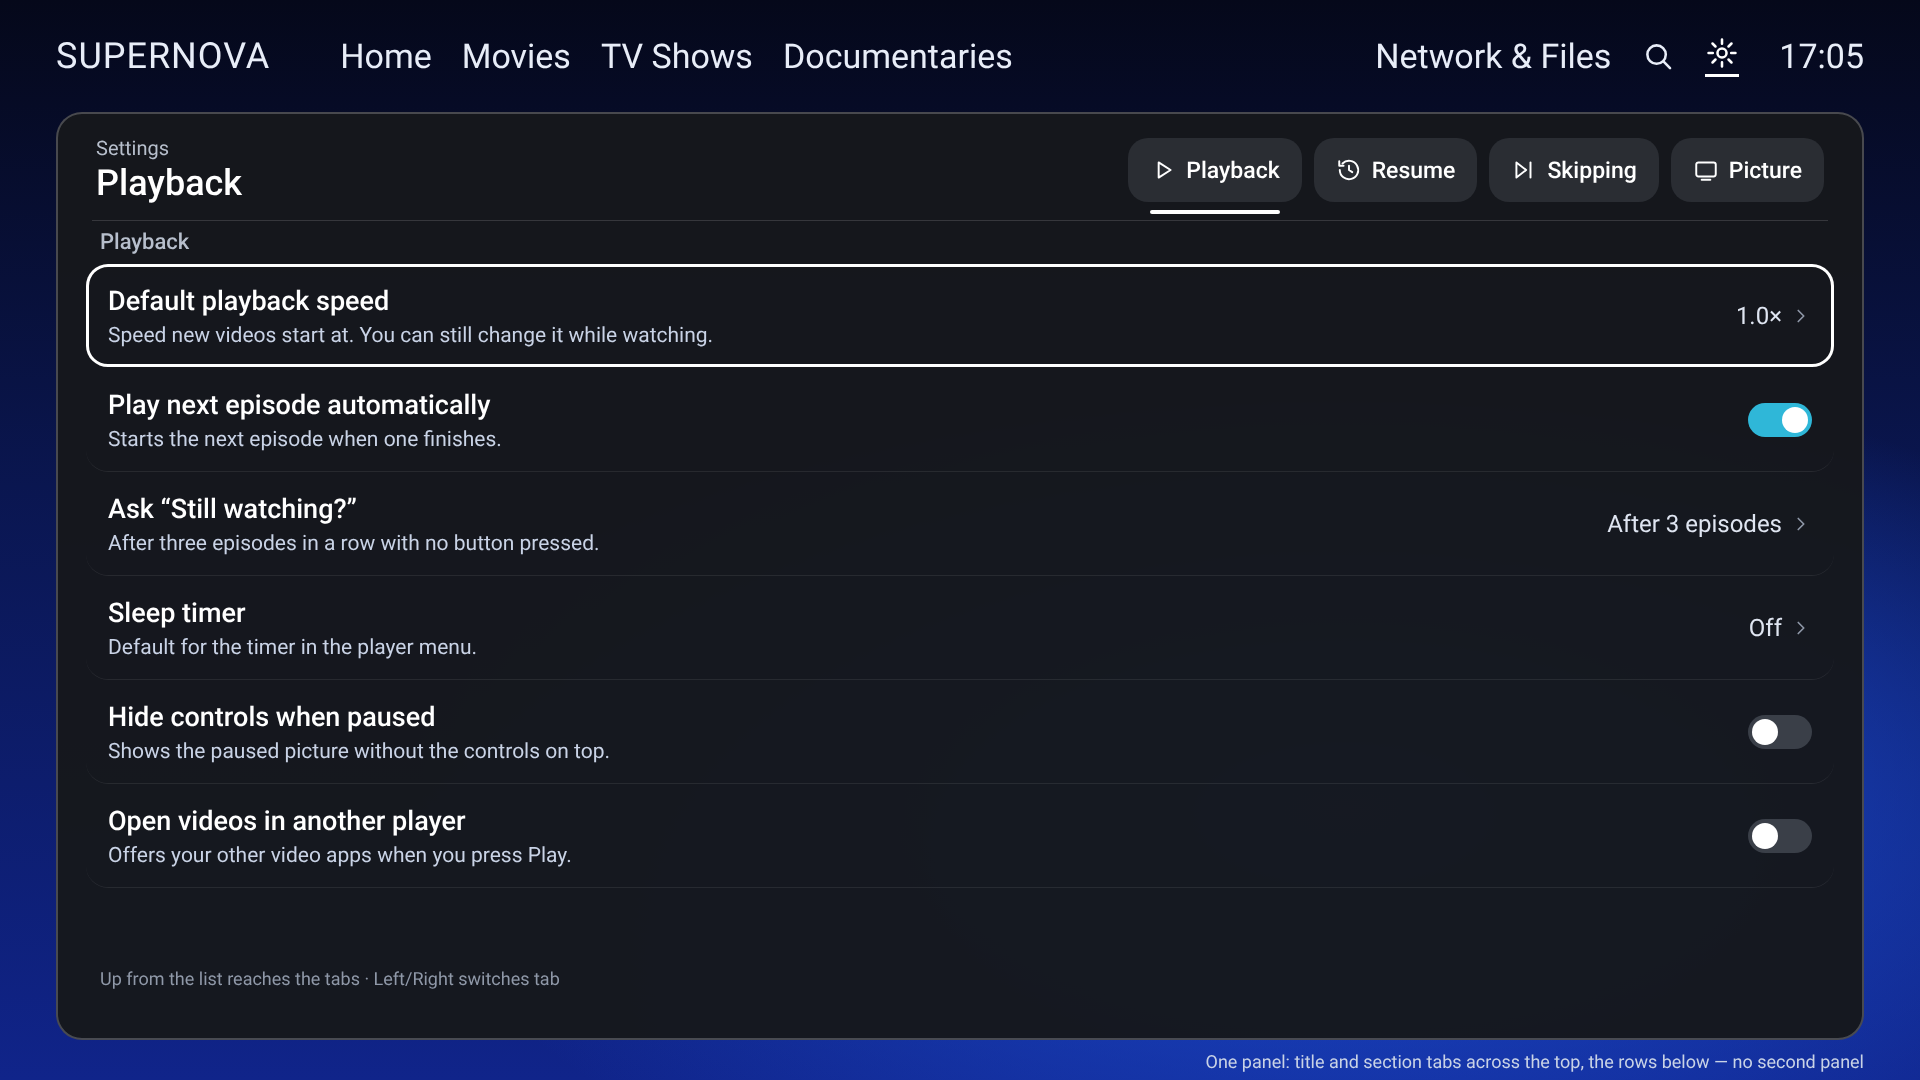
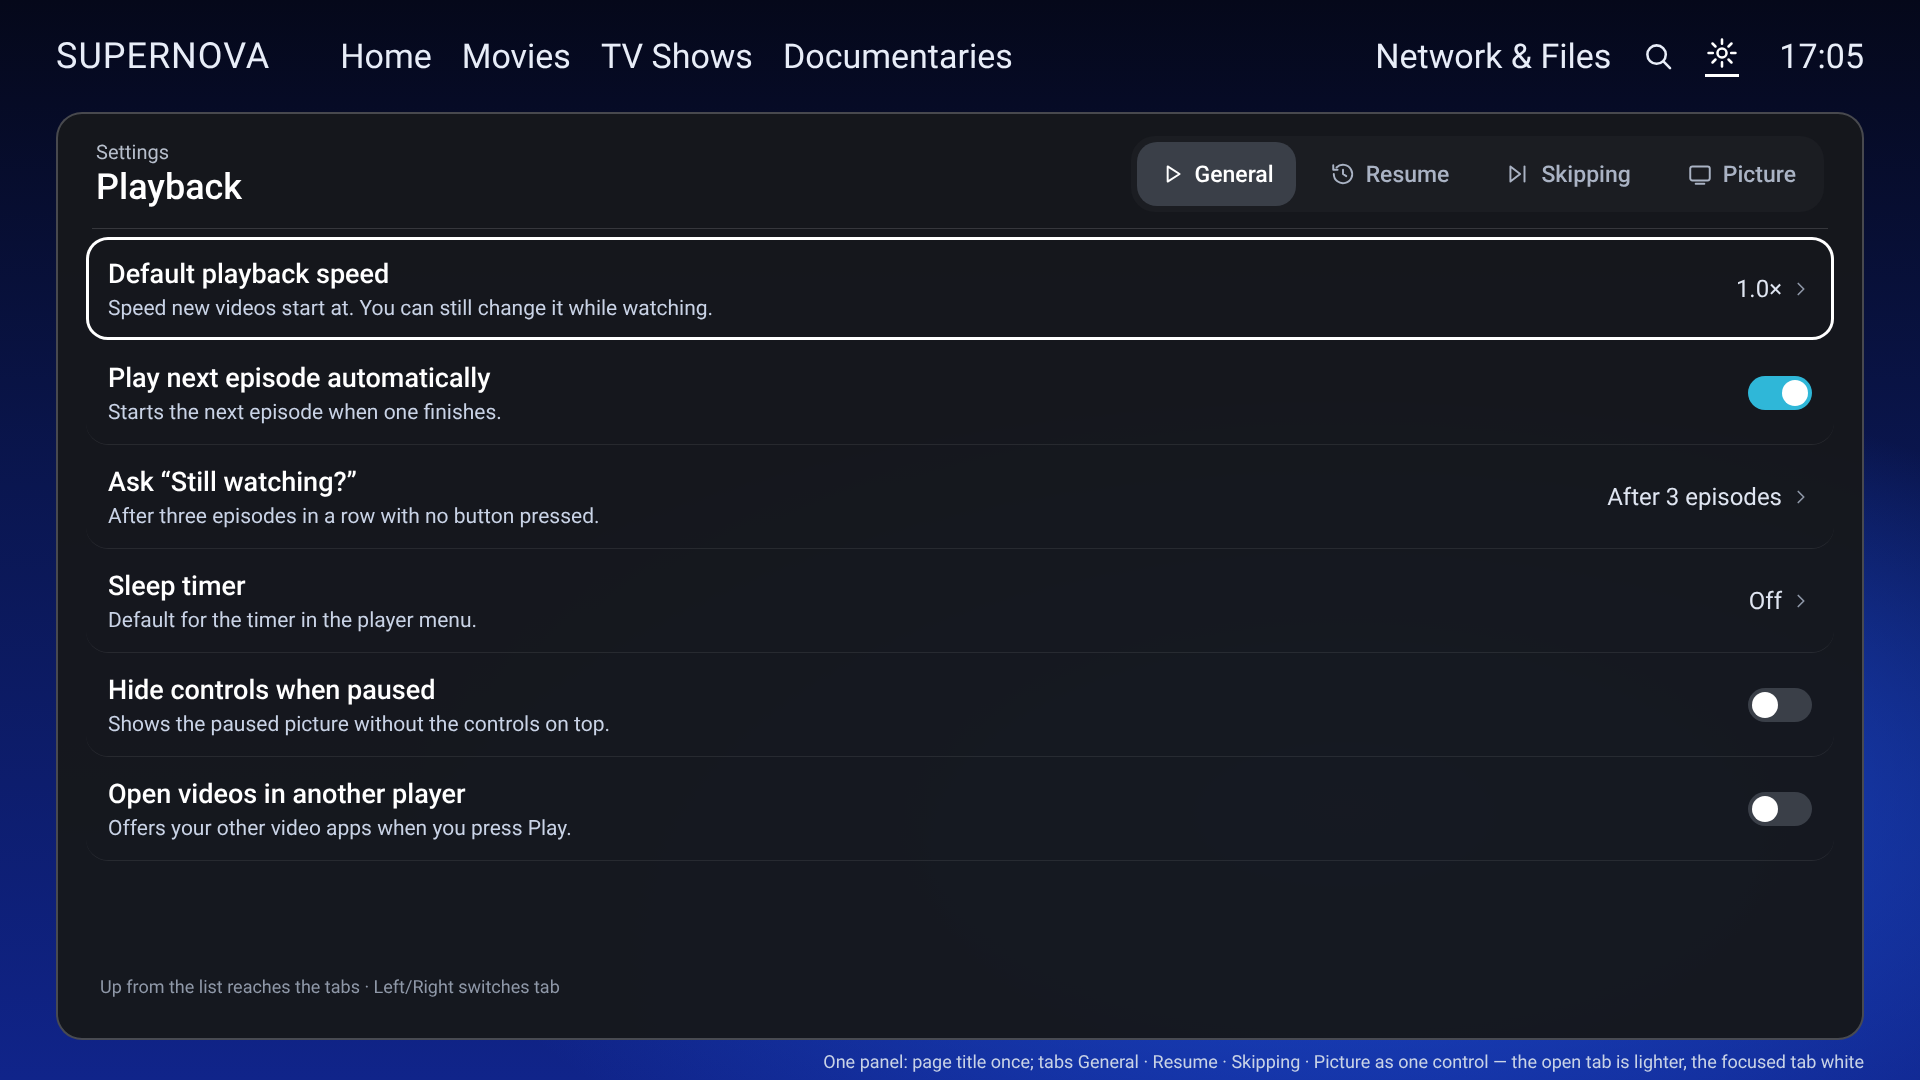
Settings 03-04: single title, segmented tabs without underline
Claude-Session: https://claude.ai/code/session_01FtDZqamY6pdaUKwc7fqgiA

diff --git a/docs/design/proposals/settings/render.js b/docs/design/proposals/settings/render.js
@@ -26,12 +26,12 @@ const speeds = ['0.5×', '0.75×', '1.0×', '1.25×', '1.5×', '2.0×'];
 const choice = `<div class="dim"></div><div class="panel"><div class="ptitle">Default playback speed</div><div class="pdesc">Speed new videos start at.</div>
   ${speeds.map((s, i) => `<div class="opt${i === 2 ? ' f' : ''}"><span class="rad${i === 2 ? ' on' : ''}">${i === 2 ? ic('check', 20) : ''}</span>${s}${i === 2 ? '<em>Normal</em>' : ''}</div>`).join('')}
   <div class="pfoot">OK chooses · Back closes</div></div>`;
-const tabs = focus => `<div class="tabs">${[['play', 'Playback'], ['resume', 'Resume'], ['skip', 'Skipping'], ['pic', 'Picture']].map(([k, t], i) => `<div class="tb${i === 0 ? ' open' : ''}${focus === i ? ' f' : ''}">${ic(k, 26)}<span>${t}</span></div>`).join('')}</div>`;
+const tabs = focus => `<div class="tabs">${[['play', 'General'], ['resume', 'Resume'], ['skip', 'Skipping'], ['pic', 'Picture']].map(([k, t], i) => `<div class="tb${i === 0 ? ' open' : ''}${focus === i ? ' f' : ''}">${ic(k, 26)}<span>${t}</span></div>`).join('')}</div>`;
 const one = (focus, tabFocus) => `<div class="one"><div class="ohead"><div><div class="crumb">Settings</div><div class="stitle">Playback</div></div>${tabs(tabFocus)}</div><div class="rule"></div>
-  ${page(focus).replace('<div class="main">', '<div class="inner">').replace('Resume, Skipping and Picture are the next pages on the left', 'Up from the list reaches the tabs · Left/Right switches tab')}</div>`;
+  ${page(focus).replace('<div class="main"><div class="grp">Playback</div>', '<div class="inner">').replace('Resume, Skipping and Picture are the next pages on the left', 'Up from the list reaches the tabs · Left/Right switches tab')}</div>`;
 const shots = [
-  ['03-single-panel.png', one('speed', -1), 'One panel: title and section tabs across the top, the rows below — no second panel'],
-  ['04-single-panel-tabs.png', one('', 1), 'Up from the rows reaches the tabs; Left/Right moves between Playback · Resume · Skipping · Picture'],
+  ['03-single-panel.png', one('speed', -1), 'One panel: page title once; tabs General · Resume · Skipping · Picture as one control — the open tab is lighter, the focused tab white'],
+  ['04-single-panel-tabs.png', one('', 1), 'Up from the rows reaches the tabs; Left/Right moves between General · Resume · Skipping · Picture'],
   ['01-playback.png', side(-1) + page('speed'), 'Settings › Playback: standard buttons on the left; each row says what it does in one line; one value or switch per row, level with its title'],
   ['02-choice.png', side(-1) + page('speed') + choice, 'Choosing a value: a solid side panel (no see-through pop-up); the current choice is ticked'],
 ];
@@ -58,7 +58,7 @@ body{width:1920px;height:1080px;overflow:hidden;font-family:R;color:#fff;positio
 .one{position:absolute;left:56px;right:56px;top:112px;bottom:40px;border-radius:26px;background:rgba(22,24,28,.97);border:2px solid rgba(255,255,255,.22);padding:22px 28px}
 .ohead{display:flex;align-items:center;justify-content:space-between;margin:0 10px 16px}.one .crumb{margin:0}.one .stitle{margin:2px 0 0}
 .tabs{display:flex;gap:12px}.tb{position:relative;height:64px;border-radius:20px;background:#2a2d33;display:flex;align-items:center;gap:10px;padding:0 22px;font-size:23px;font-weight:500}
-.tb.open::after{content:"";position:absolute;left:22px;right:22px;bottom:-12px;height:4px;border-radius:2px;background:#fff}.tb.f{background:#F4F6FB;color:#0B0D12}
+.tabs{background:#1b1d22;border-radius:24px;padding:6px}.tb{background:transparent;color:#aab3c4}.tb.open{background:#3a3f48;color:#fff}.tb.f{background:#F4F6FB;color:#0B0D12}
 .rule{height:1px;background:rgba(255,255,255,.14);margin:0 6px 8px}
 .inner{position:relative;height:calc(100% - 120px)}.inner .more{left:14px;bottom:0}
 .label{position:absolute;right:56px;bottom:8px;font-size:18px;color:#c9d3e6}`;

diff --git a/docs/0.155/OWNER_NOTES.md b/docs/0.155/OWNER_NOTES.md
@@ -353,4 +353,7 @@ Codex's branch `codex/0155-code-2026-11-04` (DP-01…DP-07, TV-only stages). **N
 - **Owner (4 Nov 2026):** no need to keep the two-panel layout. Single-panel version `03`–`04`: one charcoal panel —
   "Settings › Playback" top left, section tabs Playback · Resume · Skipping · Picture top right (white underline on the
   open tab, white on focus), a thin rule, then the rows. Up from the rows reaches the tabs; Left/Right switches tab.
-- **Status:** awaiting the owner's choice between two-panel (`01`) and single-panel (`03`) — then go-ahead to code.
+- **Owner (4 Nov 2026):** "Playback" appeared twice top left; dislikes the underline on the open tab. Revised `03`–`04`:
+  the page title says Playback once (first tab renamed **General**, the repeated group heading removed); the tabs are
+  one segmented control — the open tab a lighter charcoal, the focused tab white, no underline.
+- **Status:** single panel preferred; revised `03`–`04` awaiting the owner's look — then go-ahead to code.
